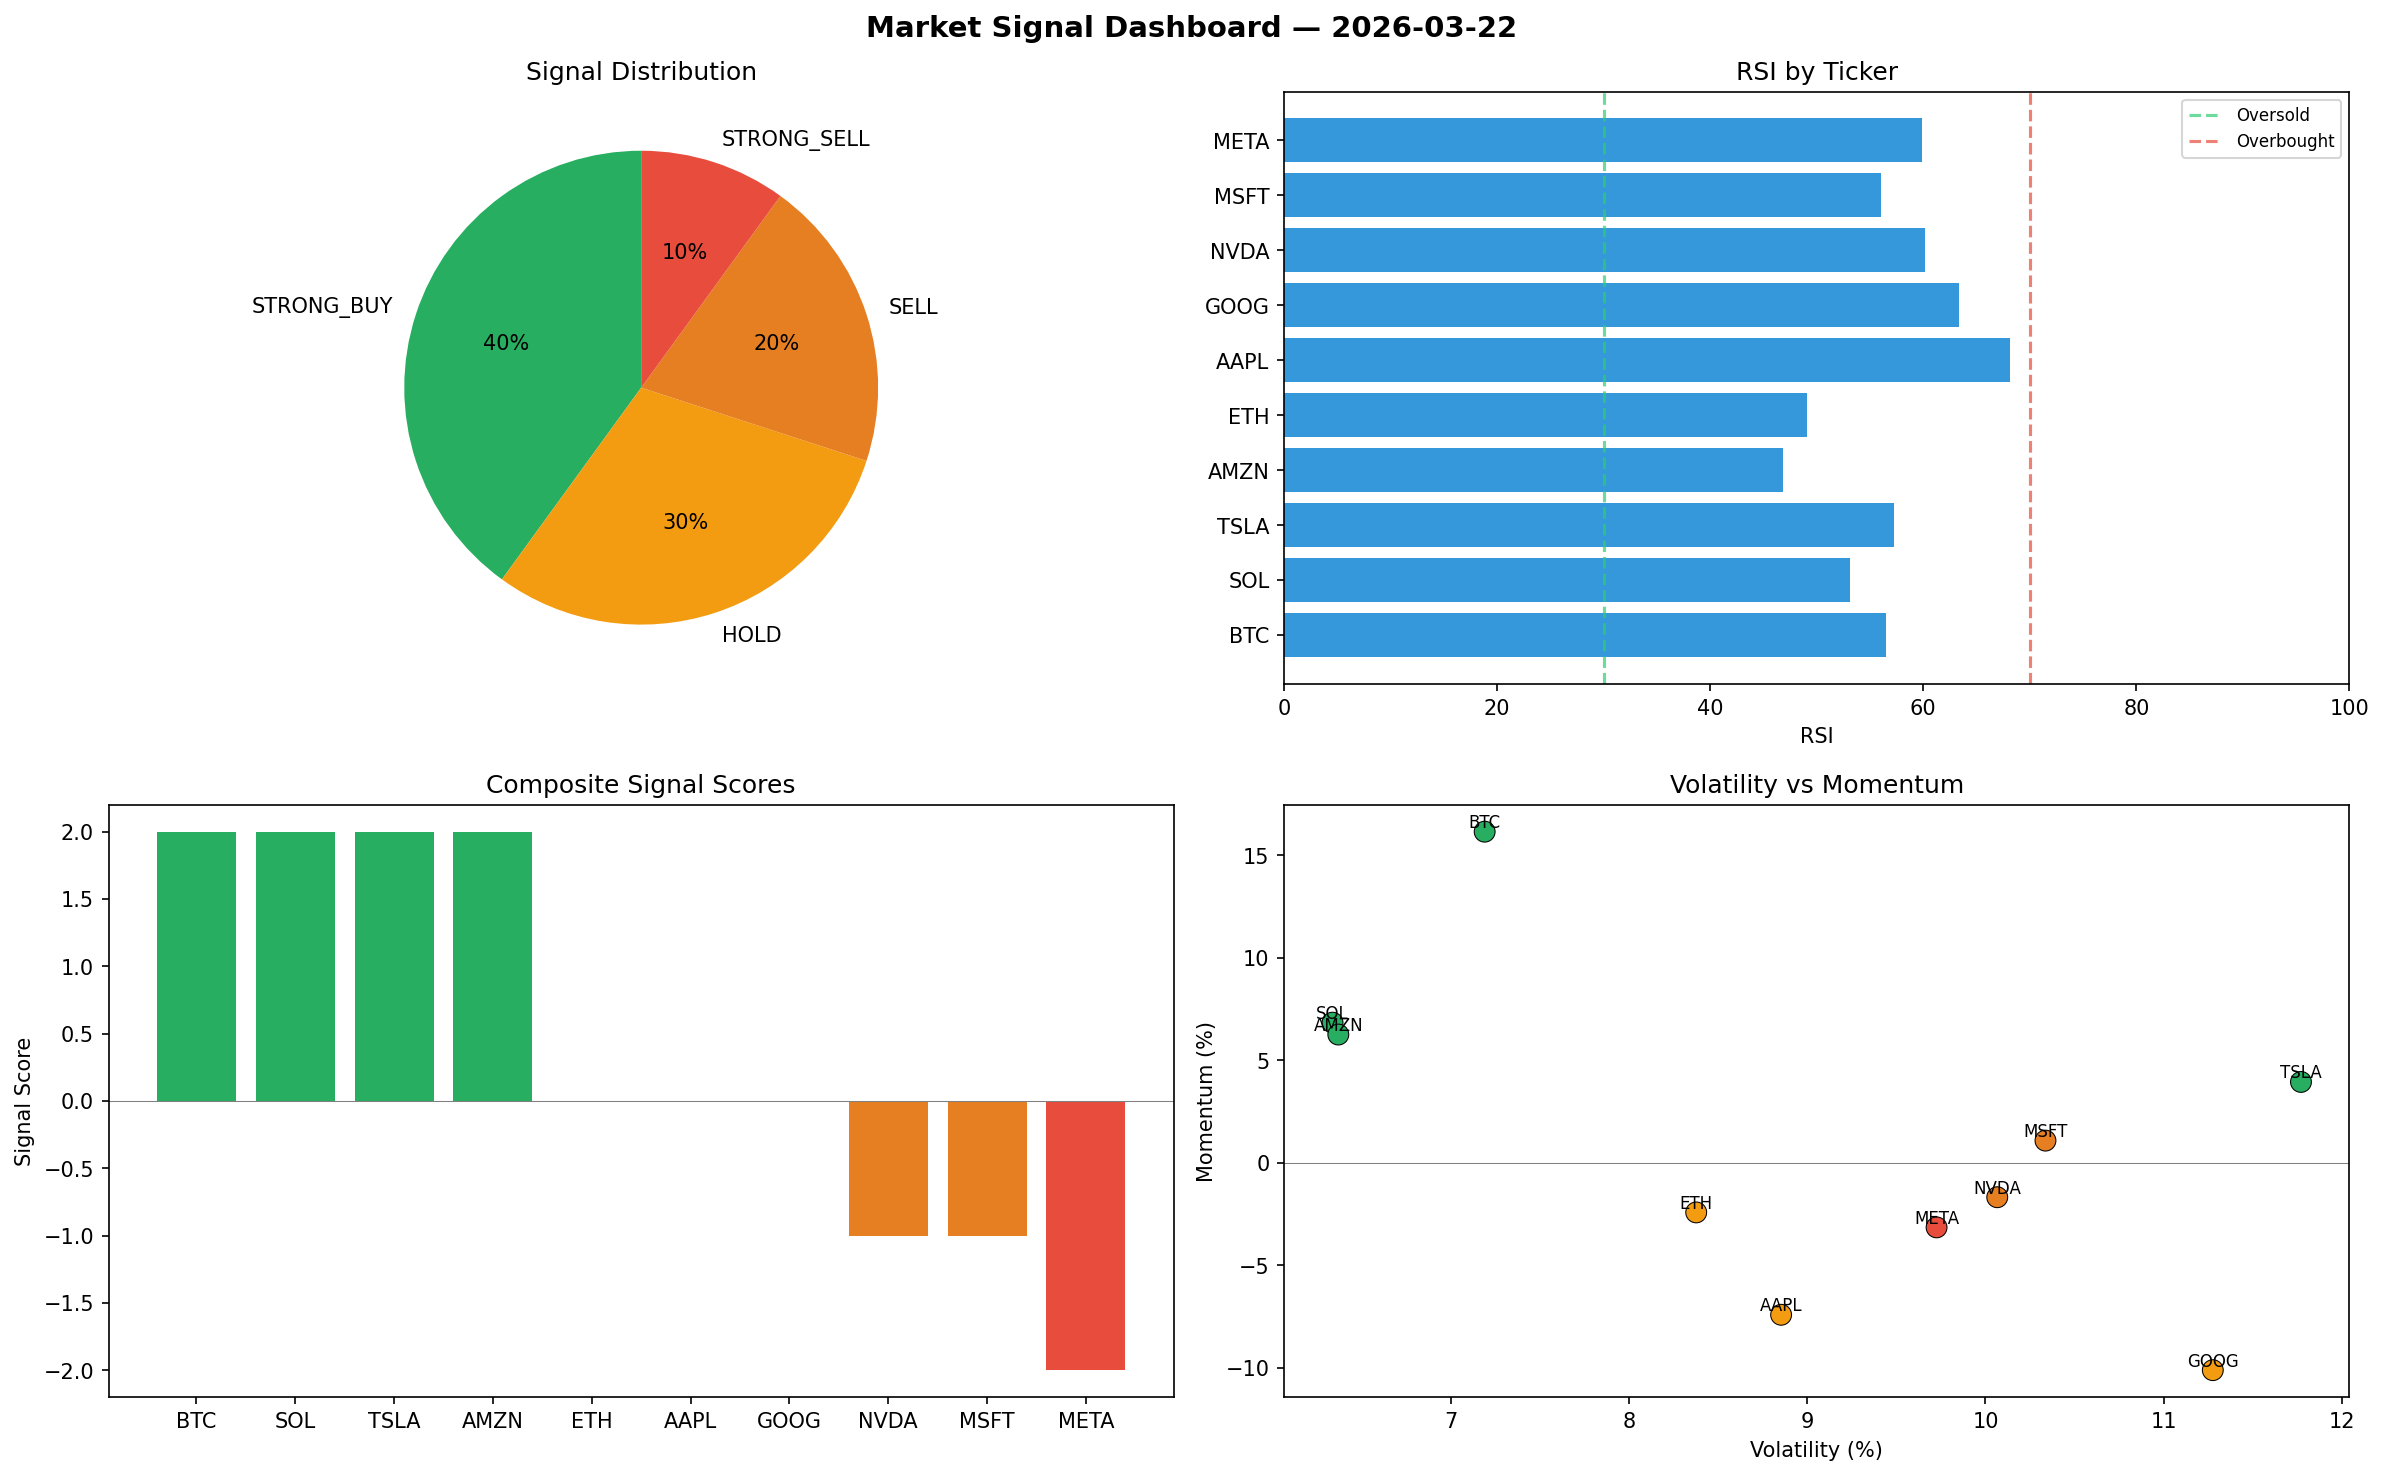
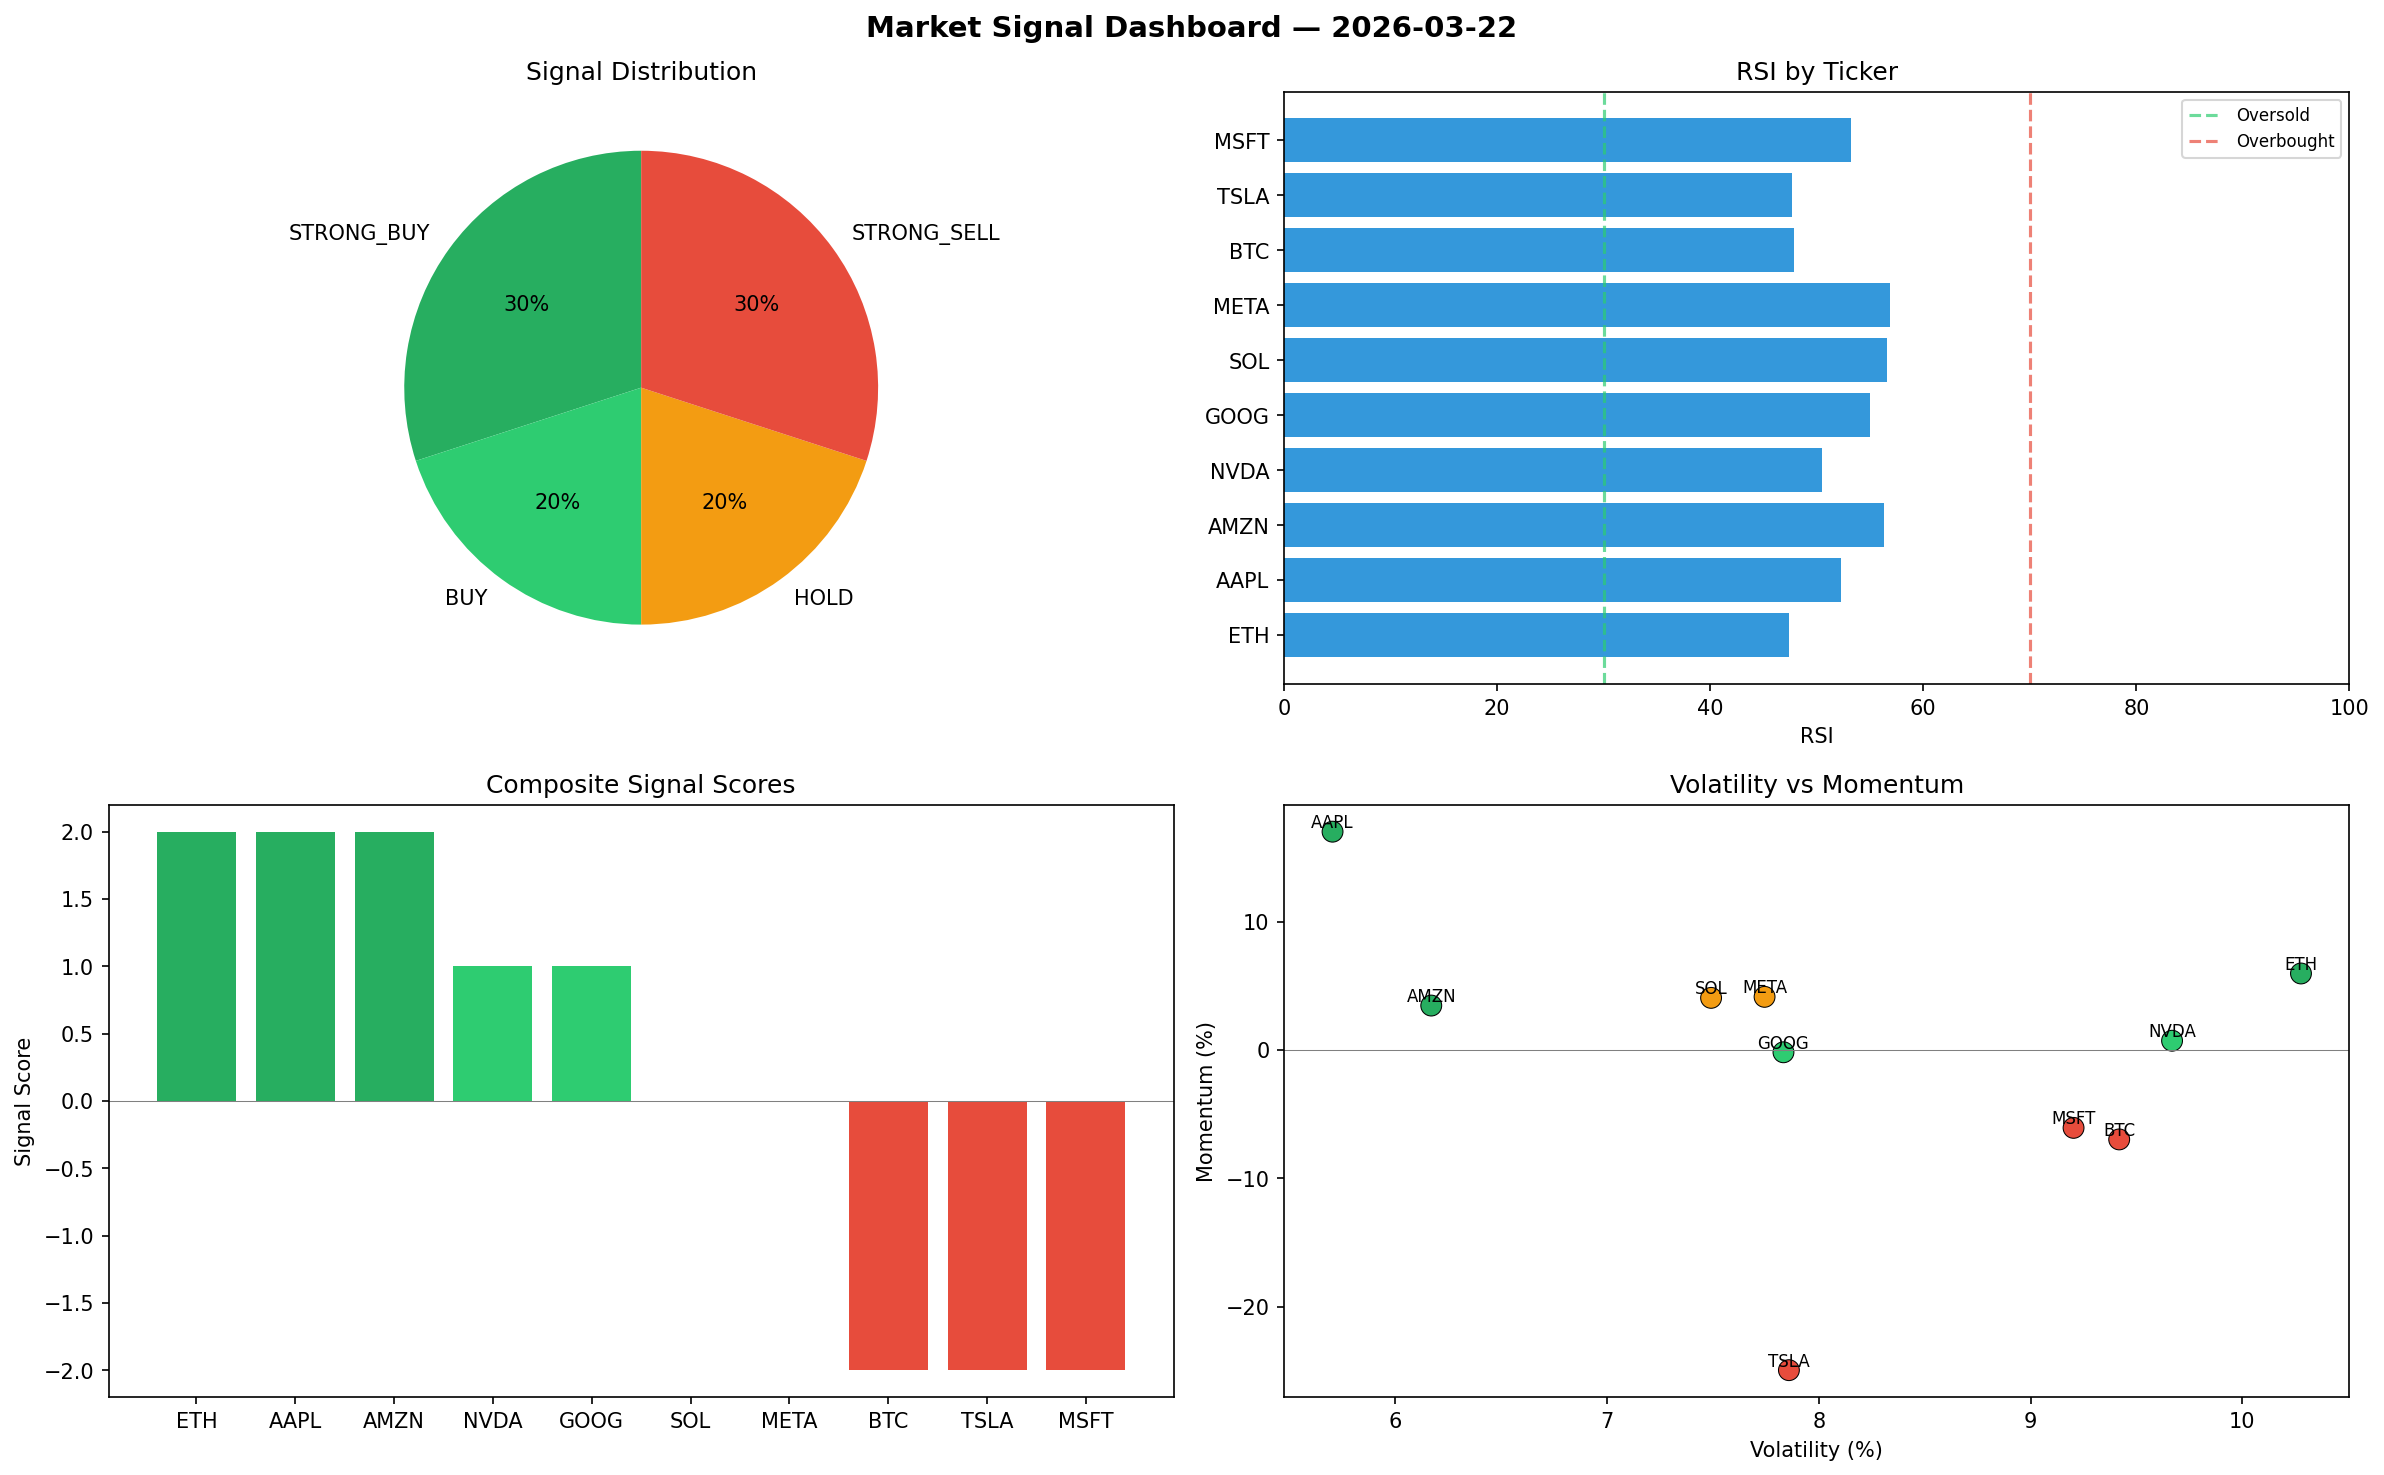
automated-bots: market signals 2026-03-22T14:54

diff --git a/logs/2026-03-22.md b/logs/2026-03-22.md
@@ -1,6 +1,6 @@
 # Market Signal Report — 2026-03-22
 
-**Run ID:** `722e8fb368` | **Buy:** 4 | **Sell:** 3 | **Hold:** 3
+**Run ID:** `0af0336b4f` | **Buy:** 5 | **Sell:** 3 | **Hold:** 2
 
 ![Dashboard](2026-03-22_dashboard.png)
 
@@ -8,28 +8,28 @@
 
 | Ticker | Price | Signal | Score | RSI | Momentum | Confidence |
 |--------|-------|--------|-------|-----|----------|------------|
-| BTC | $4685.55 | **STRONG_BUY** | 2 | 56.48 | 0.1614 | 0.5 |
-| SOL | $2730.31 | **STRONG_BUY** | 2 | 53.16 | 0.0683 | 0.5 |
-| TSLA | $2985.04 | **STRONG_BUY** | 2 | 57.26 | 0.0394 | 0.5 |
-| AMZN | $3241.5 | **STRONG_BUY** | 2 | 46.81 | 0.0625 | 0.5 |
-| ETH | $2514.36 | **HOLD** | 0 | 49.13 | -0.0242 | 0.0 |
-| AAPL | $2809.43 | **HOLD** | 0 | 68.13 | -0.0741 | 0.0 |
-| GOOG | $1532.59 | **HOLD** | 0 | 63.38 | -0.1011 | 0.0 |
-| NVDA | $2751.86 | **SELL** | -1 | 60.17 | -0.0168 | 0.25 |
-| MSFT | $4407.31 | **SELL** | -1 | 55.99 | 0.0108 | 0.25 |
-| META | $1497.14 | **STRONG_SELL** | -2 | 59.87 | -0.0315 | 0.5 |
+| ETH | $4833.54 | **STRONG_BUY** | 2 | 47.38 | 0.0596 | 0.5 |
+| AAPL | $4626.35 | **STRONG_BUY** | 2 | 52.32 | 0.1701 | 0.5 |
+| AMZN | $2147.09 | **STRONG_BUY** | 2 | 56.32 | 0.0346 | 0.5 |
+| NVDA | $475.48 | **BUY** | 1 | 50.51 | 0.0072 | 0.25 |
+| GOOG | $3140.07 | **BUY** | 1 | 55.02 | -0.0018 | 0.25 |
+| SOL | $2054.16 | **HOLD** | 0 | 56.55 | 0.0406 | 0.0 |
+| META | $1701.06 | **HOLD** | 0 | 56.84 | 0.0414 | 0.0 |
+| BTC | $1613.66 | **STRONG_SELL** | -2 | 47.88 | -0.0697 | 0.5 |
+| TSLA | $1281.16 | **STRONG_SELL** | -2 | 47.68 | -0.2495 | 0.5 |
+| MSFT | $425.19 | **STRONG_SELL** | -2 | 53.23 | -0.0607 | 0.5 |
 
 ## Delta vs Yesterday
 
 | Ticker | Today | Yesterday | Price Change | Signal Changed |
 |--------|-------|-----------|-------------|----------------|
-| BTC | STRONG_BUY | STRONG_SELL | 📈 40.94% | ⚠ YES |
-| SOL | STRONG_BUY | STRONG_SELL | 📉 -39.42% | ⚠ YES |
-| TSLA | STRONG_BUY | STRONG_SELL | 📉 -23.44% | ⚠ YES |
-| AMZN | STRONG_BUY | STRONG_SELL | 📈 92.46% | ⚠ YES |
-| ETH | HOLD | STRONG_BUY | 📈 73.17% | ⚠ YES |
-| AAPL | HOLD | HOLD | 📉 -28.47% | — |
-| GOOG | HOLD | STRONG_BUY | 📉 -71.24% | ⚠ YES |
-| NVDA | SELL | BUY | 📉 -27.46% | ⚠ YES |
-| MSFT | SELL | STRONG_SELL | 📈 37.28% | ⚠ YES |
-| META | STRONG_SELL | HOLD | 📉 -4.87% | ⚠ YES |
+| ETH | STRONG_BUY | STRONG_BUY | 📈 232.89% | — |
+| AAPL | STRONG_BUY | HOLD | 📈 17.79% | ⚠ YES |
+| AMZN | STRONG_BUY | STRONG_SELL | 📈 27.48% | ⚠ YES |
+| NVDA | BUY | BUY | 📉 -87.47% | — |
+| GOOG | BUY | STRONG_BUY | 📉 -41.07% | ⚠ YES |
+| SOL | HOLD | STRONG_SELL | 📉 -54.42% | ⚠ YES |
+| META | HOLD | HOLD | 📈 8.09% | — |
+| BTC | STRONG_SELL | STRONG_SELL | 📉 -51.46% | — |
+| TSLA | STRONG_SELL | STRONG_SELL | 📉 -67.14% | — |
+| MSFT | STRONG_SELL | STRONG_SELL | 📉 -86.76% | — |
